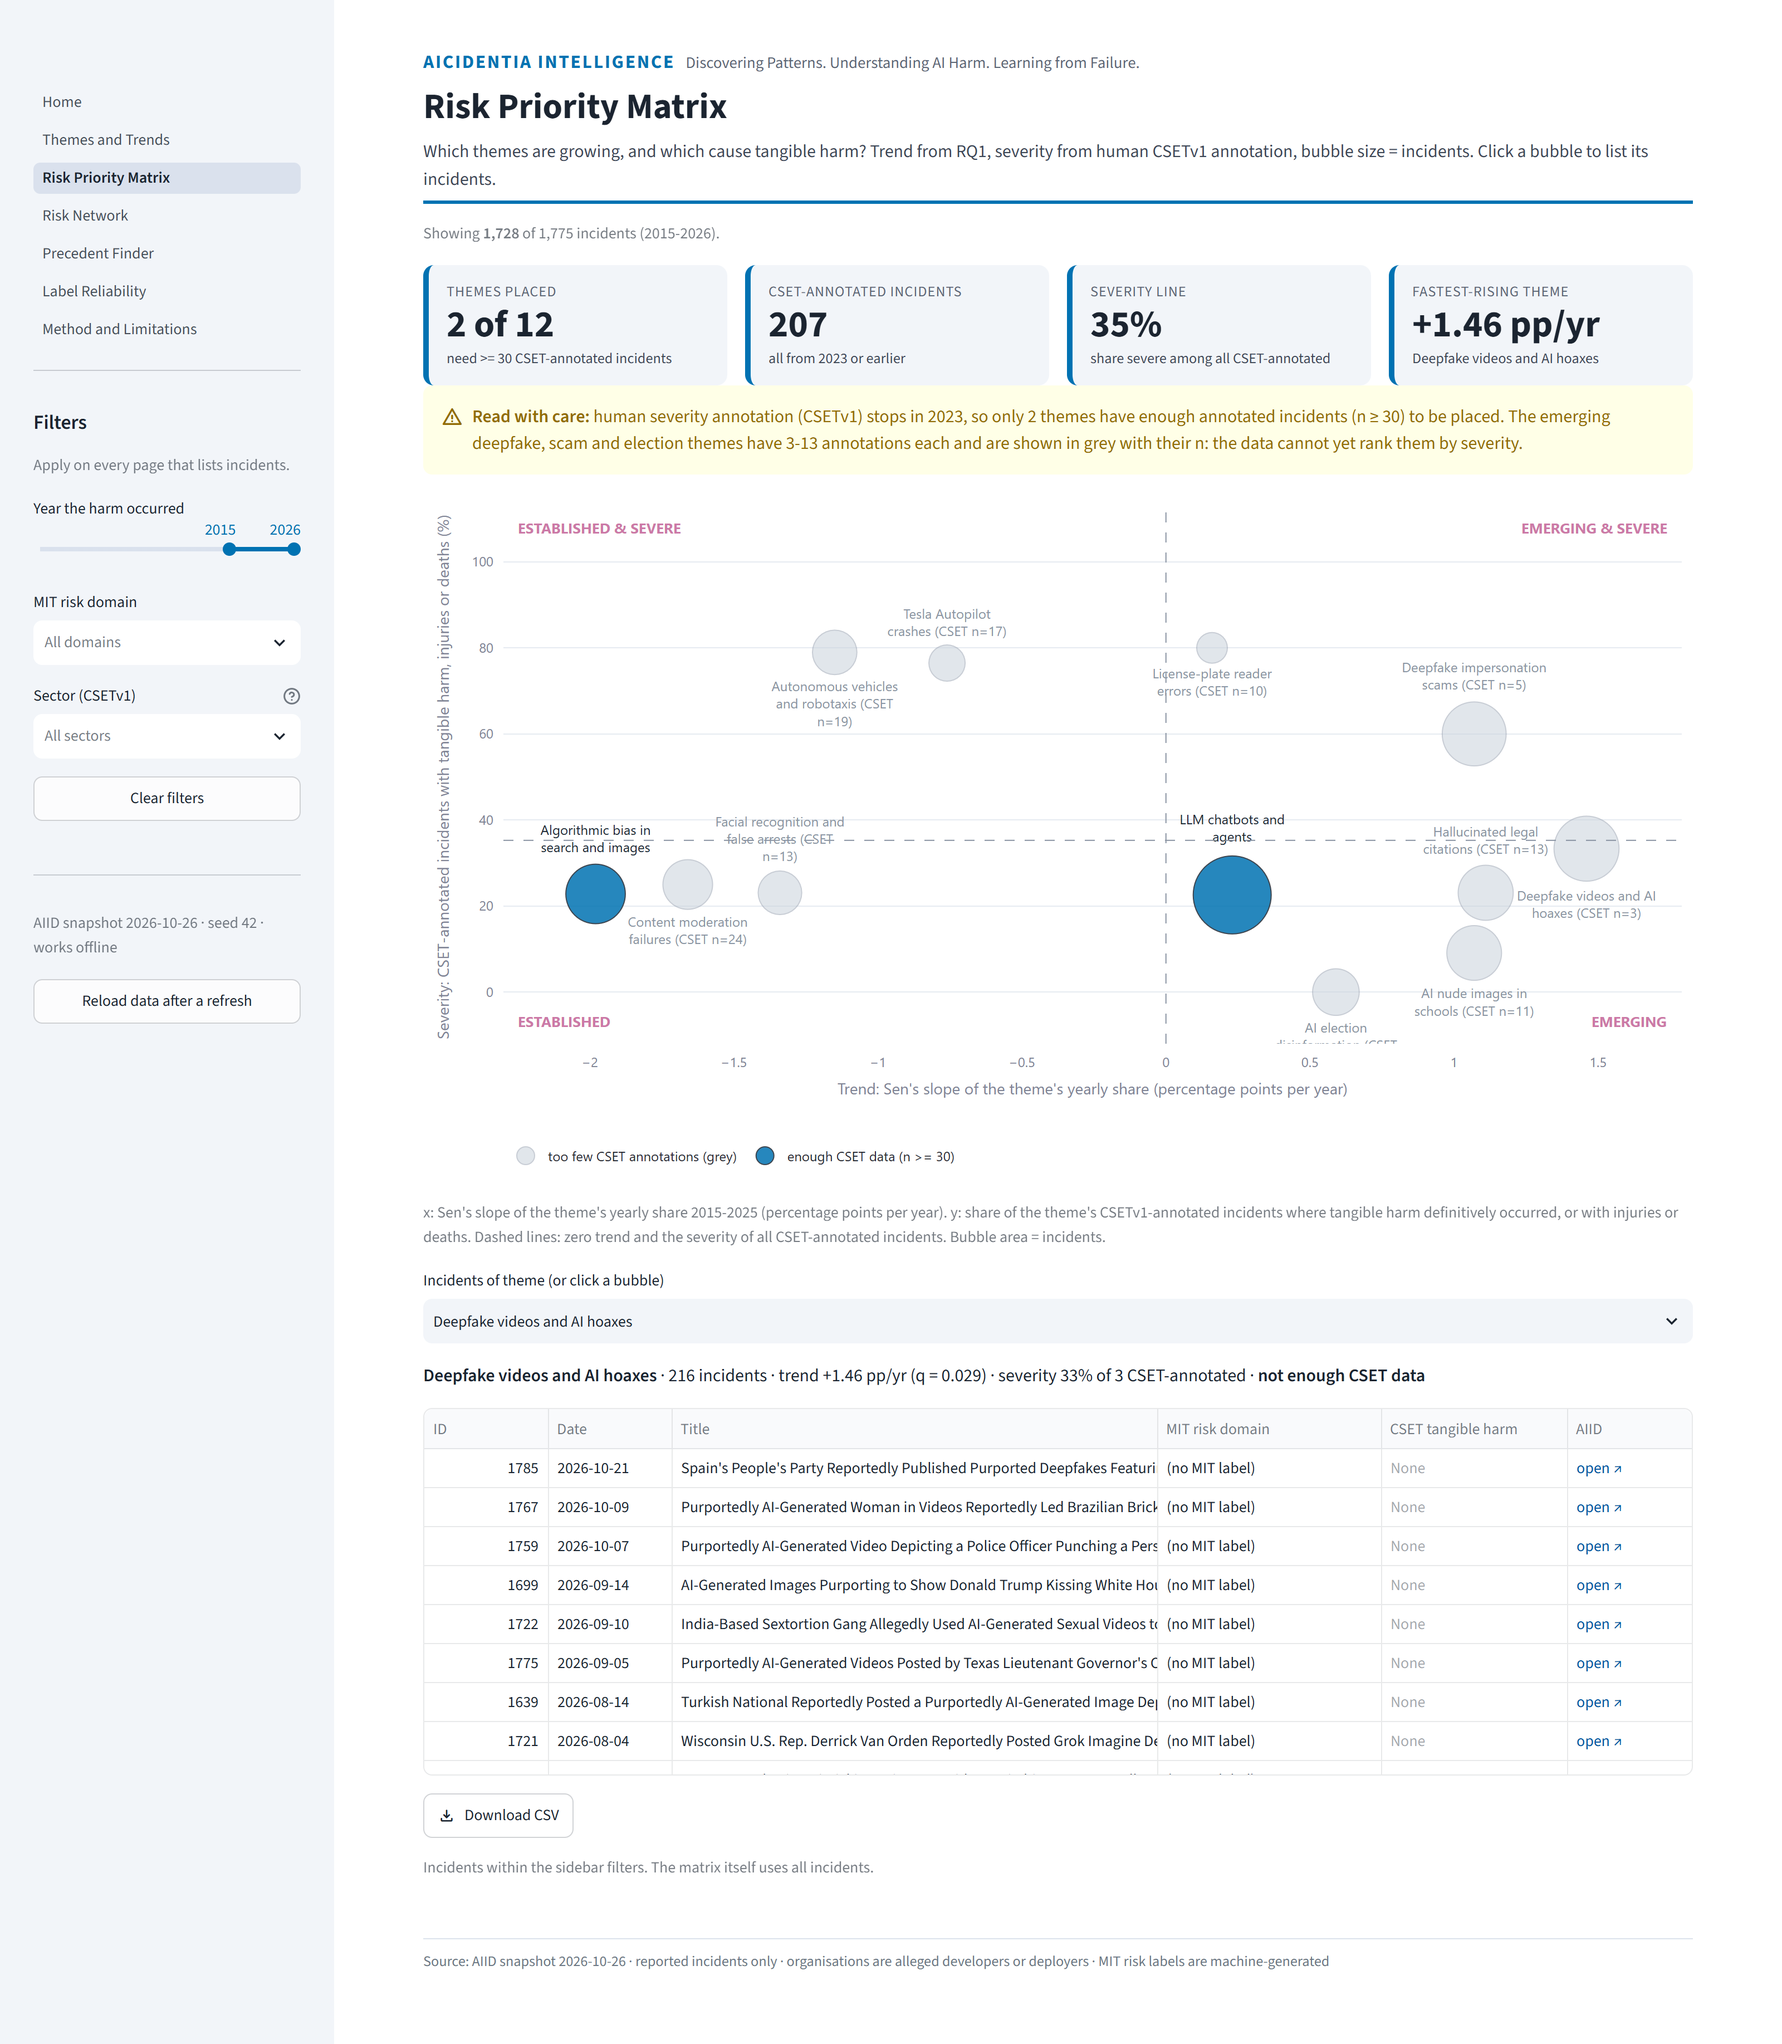
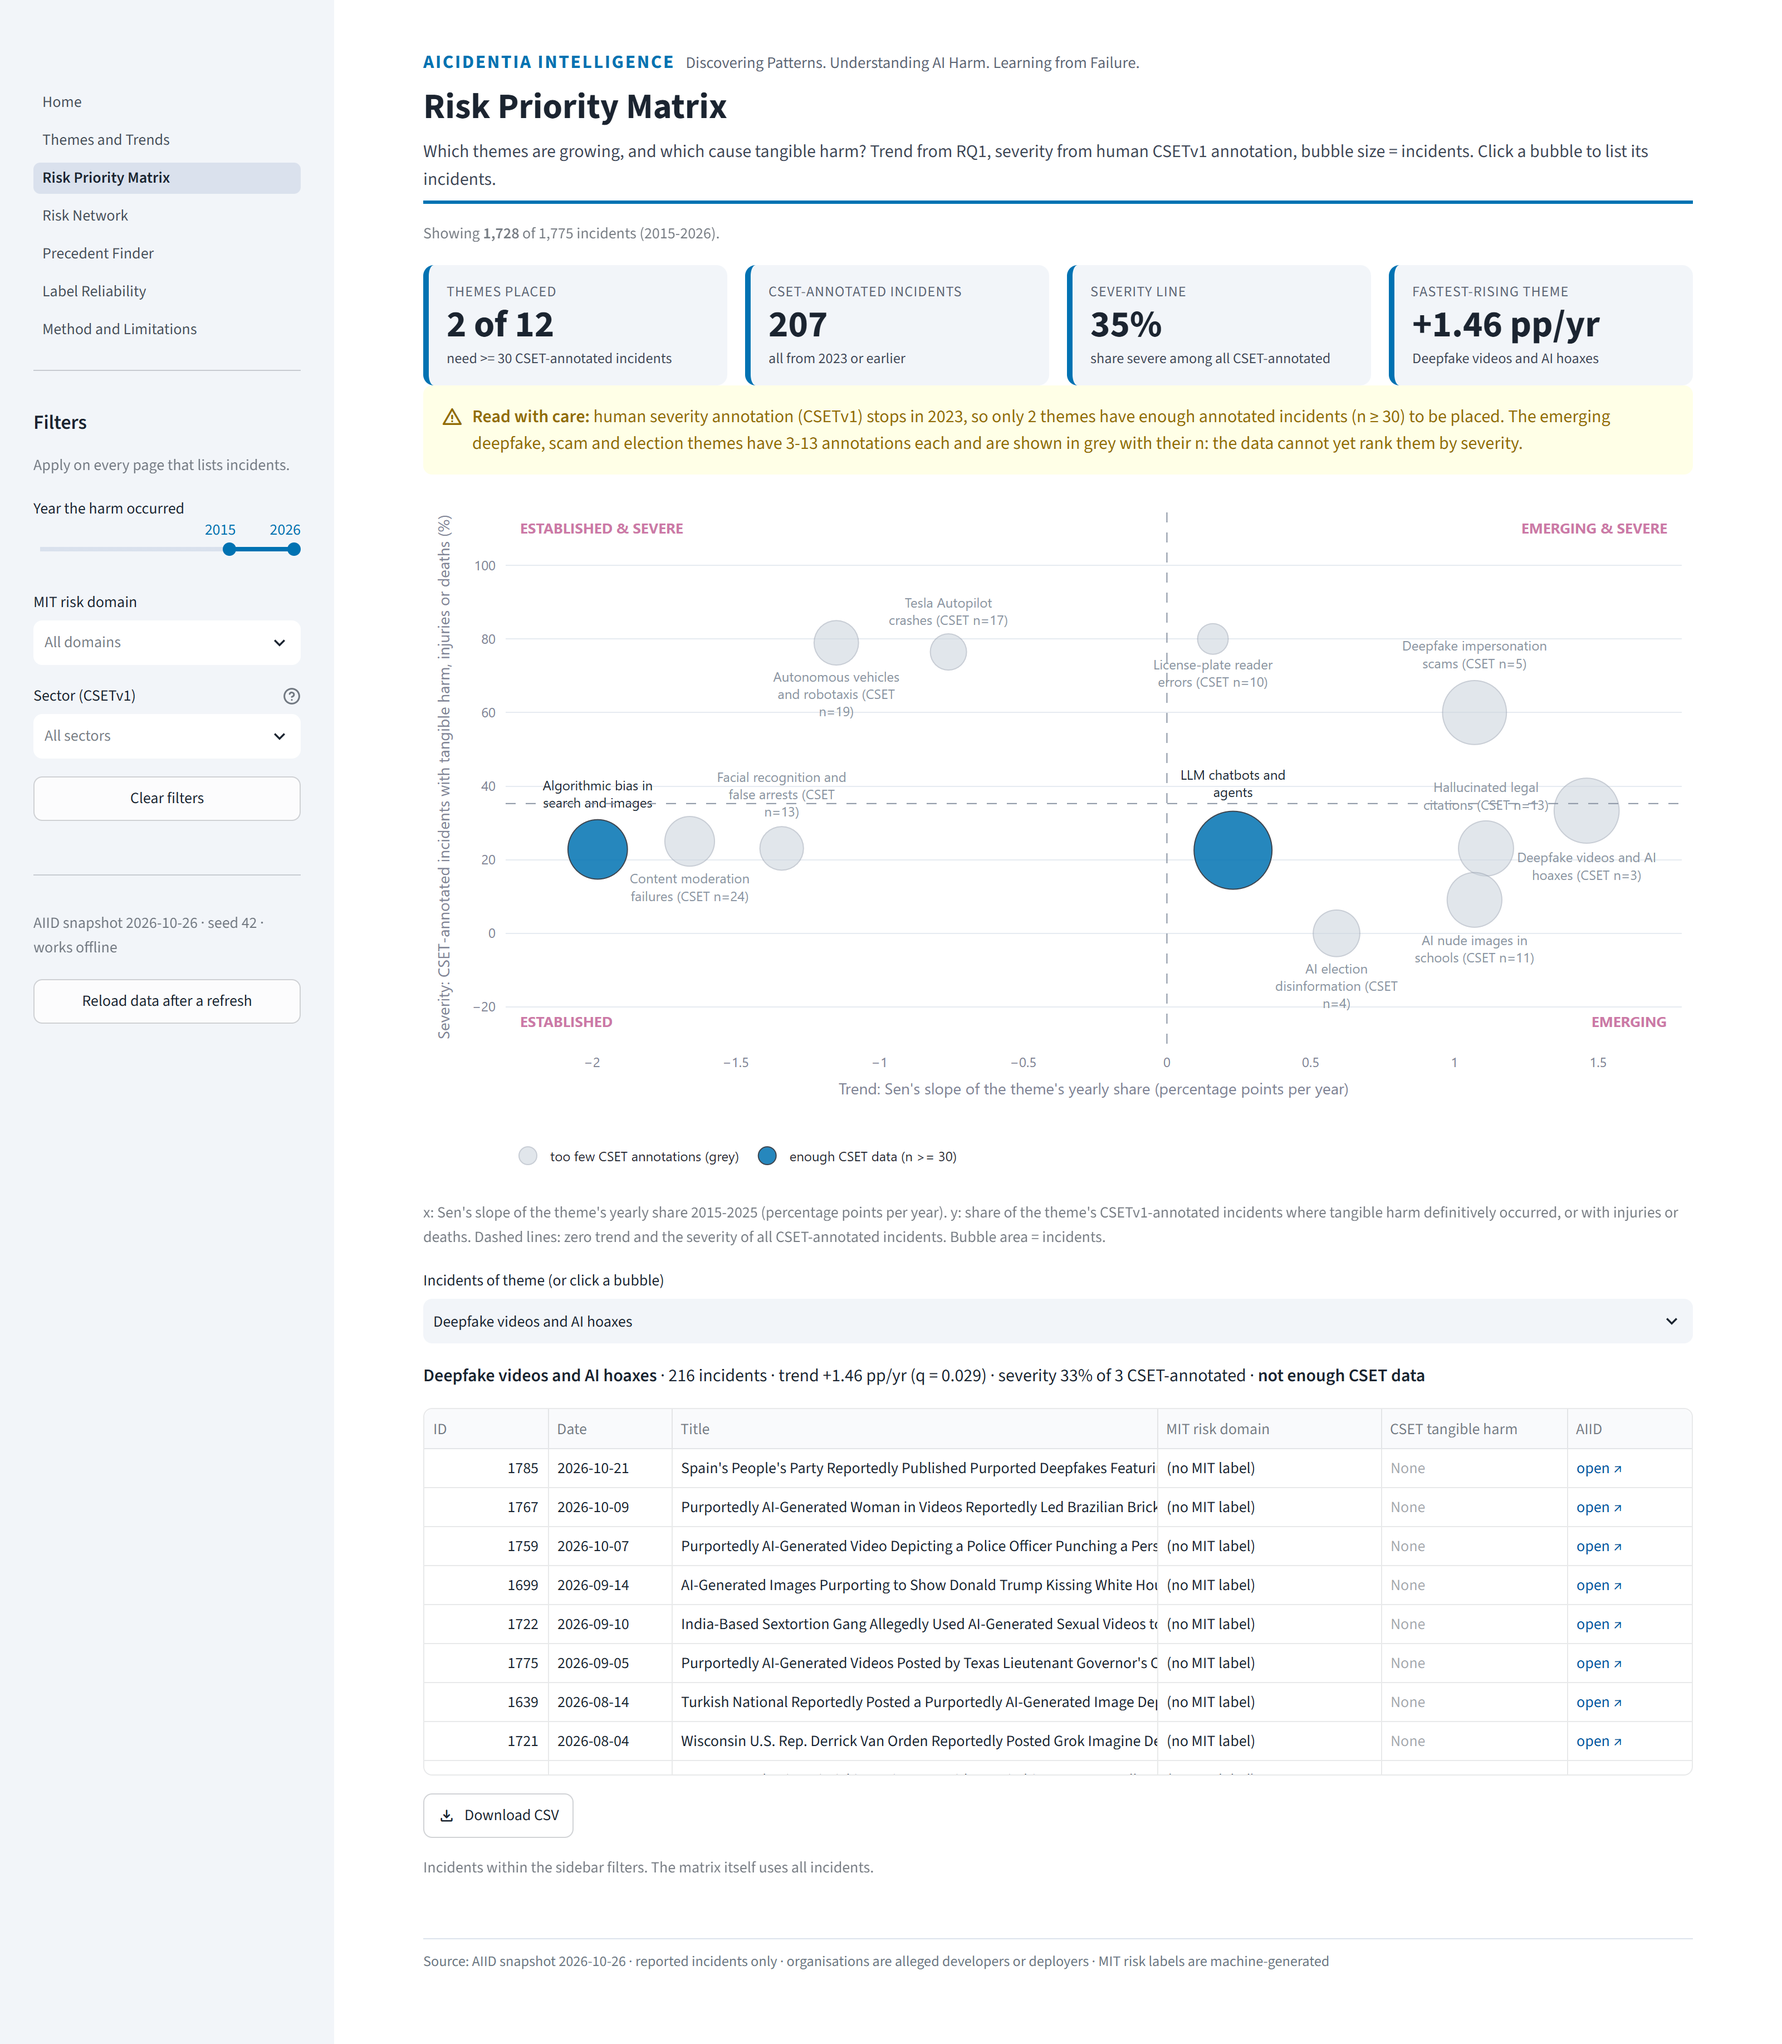
final checks and refreshed results

diff --git a/tests/test_smoke.py b/tests/test_smoke.py
@@ -77,9 +77,10 @@ APP_FILES = [APP_DIR / "Home.py", *sorted((APP_DIR / "pages").glob("*.py"))]
 
 
 @pytest.mark.parametrize("path", APP_FILES, ids=lambda p: Path(p).name)
-def test_app_pages_run_without_data(path):
+def test_app_pages_show_the_brand_header_and_footer(path):
     from streamlit.testing.v1 import AppTest
 
-    at = AppTest.from_file(str(path), default_timeout=30).run()
+    at = AppTest.from_file(str(path), default_timeout=120).run()
     assert not at.exception
-    assert any("AICIDENTIA Intelligence" in t.value for t in at.title)
+    text = " ".join(m.value for m in at.markdown)
+    assert "AICIDENTIA Intelligence" in text and "reported incidents only" in text

diff --git a/src/aicidentia/models/classify_outputs.py b/src/aicidentia/models/classify_outputs.py
@@ -116,7 +116,7 @@ def _row(
 def choose_deployable(
     rows: pd.DataFrame, oof: dict[str, pd.DataFrame], data: C.Dataset, n_boot: int, seed: int
 ) -> tuple[str, str]:
-    """Pre-specified rule: the local model (not the dummy, not Colab) with the highest cross-validated macro-F1;
+    """Pre-specified rule: the scikit-learn model (not the dummy, not DistilBERT) with the highest cross-validated macro-F1;
     but if its paired-bootstrap advantage over TF-IDF + LR is not significant (95% CI includes 0), choose
     TF-IDF + LR, which needs no model download and works offline."""
     local = [s.name for s in SPECS if s.kind != "dummy"]
